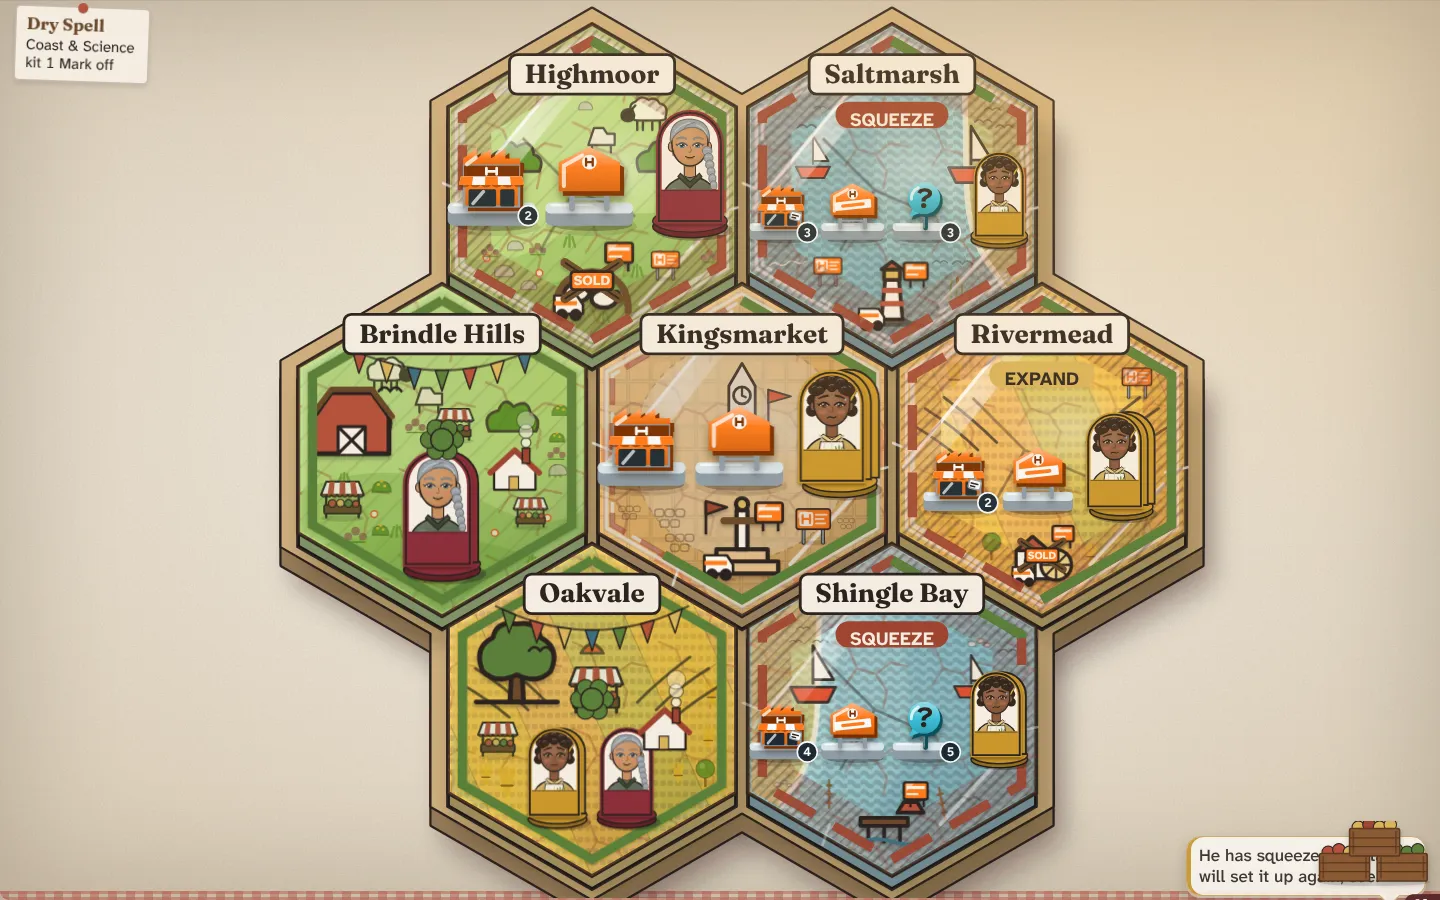
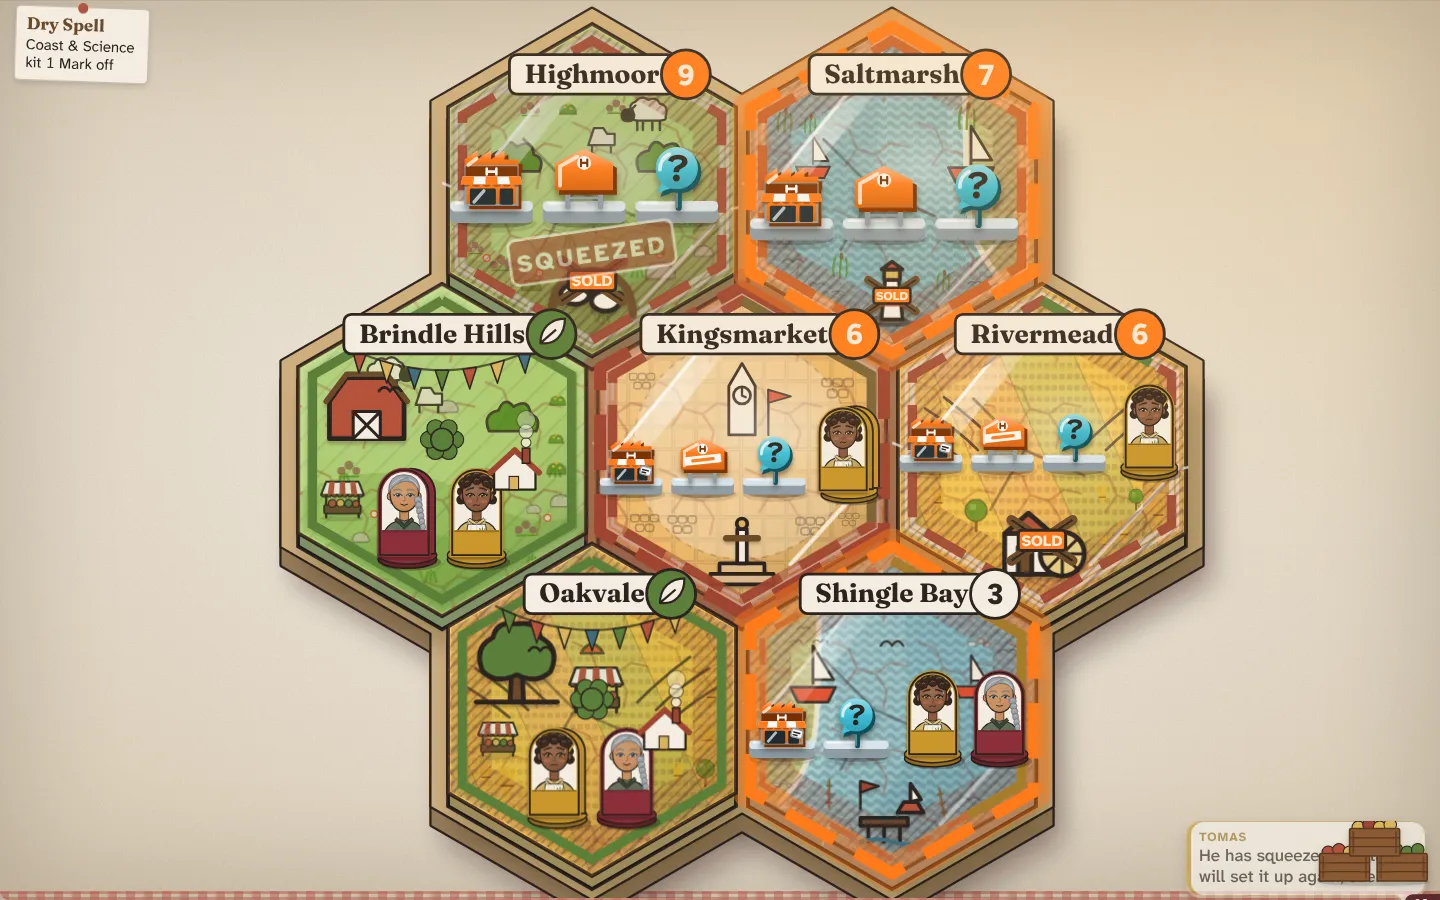
Cathnivore board: Hollowell's count discs and H signboards fold into the region's status disc (plan item 550 slice 3)
Hollowell's stacks lose their count discs (each names its count in a title),
held land loses its small H signboard, and the landmark's billboard and van
fold away; the SOLD boards and the warning pennant stay. The status disc is
28 px or more across on a desktop and 23 on a phone, whatever the board's
scale. region-status checks its size and that no piece meets the banner;
board-tokens and board-control updated. Cathnivore key art re-shot.

Claude-Session: https://claude.ai/code/session_01SimvMN2n8hnjgoYWDCwY1a

diff --git a/src/ui/Map.tsx b/src/ui/Map.tsx
@@ -3,7 +3,7 @@ import { ABILITY_MOMENT_MS, abilityUsed, type AbilityMomentView } from './abilit
 import { Landmark } from './Landmark'
 import { playCues } from '../platform/sound'
 import { atTheEdge, gripStage, regionControl, squeezedLastTurn, type GripStage } from './grip'
-import { COUNT_FROM, CORP_COUNT_FROM, ENEMY_Y, PRODUCER_H, PRODUCER_W, PRODUCER_Y, STACK_H, STACK_W, pieceLayout, type PieceRect } from './pieceLayout'
+import { COUNT_FROM, ENEMY_Y, PRODUCER_H, PRODUCER_W, PRODUCER_Y, STACK_H, STACK_W, pieceLayout, type PieceRect } from './pieceLayout'
 import { BOARD_LANDMARKS, boxAt, dressingSpot, LANDMARK_ART_H, landmarkMinScale, pickSpot } from './landmarkSpot'
 import { regionGround } from './regionGround'
 import RegionGroundArt from './RegionGroundArt'
@@ -376,13 +376,13 @@ function CorpBase({ cx, y, w }: { cx: number; y: number; w: number }) {
 }
 
 // Plan item 63: a stack's count, a dark disc sized by the tray so its number never renders under 11 px.
-function CountBadge({ cx, cy, r, n, corp = false }: { cx: number; cy: number; r: number; n: number; corp?: boolean }) {
+function CountBadge({ cx, cy, r, n }: { cx: number; cy: number; r: number; n: number }) {
   const fs = r * 1.25
-  // Plan item 413: Hollowell's count is its own slate-and-acrylic chip, not the players' ink disc.
+  // Plan item 550: only the producers' stalls carry a count disc now (Hollowell's is the region's status disc).
   return (
-    <g className={`piece-count${corp ? ' corp-count' : ''}`} pointerEvents="none">
-      <circle cx={cx} cy={cy} r={r} fill={corp ? 'var(--corp-slate)' : 'var(--ink, #1b1712)'} stroke={corp ? 'var(--corp-acrylic)' : 'var(--paper, #f4ead8)'} strokeWidth={Math.max(0.8, r * 0.16)} />
-      <text x={cx} y={cy + fs * 0.36} textAnchor="middle" fontSize={fs} fontWeight={700} fill={corp ? 'var(--corp-acrylic)' : 'var(--paper, #f4ead8)'}>
+    <g className="piece-count" pointerEvents="none">
+      <circle cx={cx} cy={cy} r={r} fill="var(--ink, #1b1712)" stroke="var(--paper, #f4ead8)" strokeWidth={Math.max(0.8, r * 0.16)} />
+      <text x={cx} y={cy + fs * 0.36} textAnchor="middle" fontSize={fs} fontWeight={700} fill="var(--paper, #f4ead8)">
         {n}
       </text>
     </g>
@@ -397,7 +397,7 @@ function CountBadge({ cx, cy, r, n, corp = false }: { cx: number; cy: number; r:
 /** Plan item 172: each piece kind's outline, so the board reads without colour. */
 const SILHOUETTE = { outlets: 'sawtooth', buyouts: 'peak', doubt: 'bubble' } as const
 
-function EnemyStack({ kind, n, scale, ornaments, countR, cy = ENEMY_Y }: { kind: 'outlets' | 'buyouts' | 'doubt'; n: number; scale: number; ornaments: boolean; countR: number; cy?: number }) {
+function EnemyStack({ kind, n, scale, ornaments, cy = ENEMY_Y }: { kind: 'outlets' | 'buyouts' | 'doubt'; n: number; scale: number; ornaments: boolean; cy?: number }) {
   // The art spans 18 icon units across (the base's lip, copies offset right) and 22.6 down (copies up, the
   // base's shadow below).
   const k = Math.min((STACK_W * scale) / 18, (STACK_H * scale) / 22.6)
@@ -411,8 +411,9 @@ function EnemyStack({ kind, n, scale, ornaments, countR, cy = ENEMY_Y }: { kind:
         {/* keyed by the count, so a piece landing on a stack drops in again */}
         <g key={n}>{icon}</g>
       </g>
-      {/* plan item 425: the count sits on the piece's own plinth (its right end), not floating above it */}
-      {n >= CORP_COUNT_FROM && <CountBadge corp cx={Math.min(14.6 * k, STACK_W * scale - countR)} cy={Math.min(bottom - 3.6 * k, bottom - countR)} r={countR} n={n} />}
+      {/* Plan item 550: no count disc on the piece; the region's status disc on its banner counts Hollowell's pieces,
+          and the stack names its own count for a hover or a screen reader. */}
+      <title>{`${n} ${kind === 'outlets' ? (n === 1 ? 'Outlet' : 'Outlets') : kind === 'buyouts' ? (n === 1 ? 'Buyout' : 'Buyouts') : 'Doubt'}`}</title>
     </g>
   )
 }
@@ -1189,7 +1190,7 @@ export default function Map({ state, enemyTurn, highlight, threat, onSelect, onI
                           // Plan item 451: the stack a dragged card will take pieces from lifts and fades in time.
                           data-going={aim?.region === id && aim.going?.includes(k) ? '' : undefined}
                         >
-                          <EnemyStack kind={rect.kind} n={n} scale={tray.enemyScale} ornaments={tray.ornaments} countR={tray.countR} cy={tray.enemyY} />
+                          <EnemyStack kind={rect.kind} n={n} scale={tray.enemyScale} ornaments={tray.ornaments} cy={tray.enemyY} />
                         </g>
                       )
                     }
@@ -1345,17 +1346,22 @@ export default function Map({ state, enemyTurn, highlight, threat, onSelect, onI
               const control = regionControl(r)
               const label = `${def.name}: ${control === 'free' ? 'free' : control === 'held' ? 'held by Hollowell' : 'contested'}${control === 'free' ? '' : `, ${n} Hollowell ${n === 1 ? 'piece' : 'pieces'}`}`
               const cy = y - HEX_R * 0.62 - 4.5
+              // Plan item 550: at least 28 px across on a desktop and 23 px on a phone, whatever the board's scale.
+              const sr = Math.max(13, (11.5 * HEX_R) / Math.max(24, hexPx ?? 72))
+              const k = sr / 11
               return (
-                <g className="region-status" data-region-status={control} data-count={n} data-cy={cy} role="img" aria-label={label} transform={`translate(${x + def.name.length * 4.3 + 14} ${cy})`}>
+                <g className="region-status" data-region-status={control} data-count={n} data-cy={cy} data-r={sr.toFixed(1)} role="img" aria-label={label} transform={`translate(${x + def.name.length * 4.3 + Math.max(14, sr * 0.8)} ${cy})`}>
                   <title>{label}</title>
-                  <circle r={11} className="region-status-disc" />
-                  {control === 'free' ? (
-                    <path className="region-status-leaf" d="M-5 4C-5-3 0-7 6-7C6 0 2 5-5 4ZM-5 4L2-2" />
-                  ) : (
-                    <text y={4.6} textAnchor="middle" className="region-status-count">
-                      {n}
-                    </text>
-                  )}
+                  <circle r={sr} className="region-status-disc" />
+                  <g transform={`scale(${k.toFixed(3)})`}>
+                    {control === 'free' ? (
+                      <path className="region-status-leaf" d="M-5 4C-5-3 0-7 6-7C6 0 2 5-5 4ZM-5 4L2-2" />
+                    ) : (
+                      <text y={4.6} textAnchor="middle" className="region-status-count">
+                        {n}
+                      </text>
+                    )}
+                  </g>
                 </g>
               )
             })()}
@@ -1606,7 +1612,7 @@ function fitPlaques(svg: SVGSVGElement) {
     plate.setAttribute('width', String(w + 16))
     // Plan item 550: the status disc rides the plaque's right end.
     const status = sign.querySelector<SVGGElement>('.region-status')
-    if (status) status.setAttribute('transform', `translate(${cx + w / 2 + 14} ${status.getAttribute('data-cy')})`)
+    if (status) status.setAttribute('transform', `translate(${cx + w / 2 + Math.max(14, Number(status.getAttribute('data-r')) * 0.8)} ${status.getAttribute('data-cy')})`)
   }
 }
 
@@ -1615,33 +1621,16 @@ function matchesSlot(state: GameState, region: RegionId, slot: 'squeeze' | 'expa
 }
 
 /**
- * Plan item 55: Hollowell's props on a landmark, in its own 24-unit box so they stand where it does: a glossy
- * billboard (stage 1+), a delivery van (stage 2+), boards across the landmark under a SOLD sign (stage 3), and a
- * small warning pennant when the next Squeeze would take ground. Each reads by shape, so greyscale tells them apart.
+ * Plan item 55: Hollowell's props on a landmark, in its own 24-unit box so they stand where it does: boards across
+ * the landmark under a SOLD sign (stage 3), and a small warning pennant when the next Squeeze would take ground
+ * (item 550 folded the billboard and van away). Each reads by shape, so greyscale tells them apart.
  */
 function GripProps({ stage, edge }: { stage: GripStage; edge: boolean }) {
   const ink = { stroke: 'var(--ink)', strokeWidth: 0.9, strokeLinejoin: 'round' as const }
   return (
     <g className="grip-props">
-      {stage >= 1 && (
-        <g className="grip-billboard" data-grip-prop="billboard" {...ink}>
-          <path d="M7 -3 V-6 M12 -3 V-6" />
-          <rect x={4.5} y={-12.5} width={9} height={6.5} rx={0.8} fill="var(--hollowell)" />
-          <path d="M5.5 -10.5 H12.5" stroke="var(--paper)" strokeWidth={1.2} />
-          <path d="M5.5 -8 H10" stroke="var(--paper)" strokeWidth={0.8} />
-          {/* Plan item 267: glossy plastic (VISION: the corporations are glossy, the players' land hand-made). */}
-          <path className="grip-gloss" d="M5.4 -12 L8.4 -12 L5.4 -9 Z" fill="var(--paper-hi, var(--paper))" stroke="none" opacity={0.55} />
-        </g>
-      )}
-      {stage >= 2 && (
-        <g className="grip-van" data-grip-prop="van" {...ink}>
-          <path d="M-12.5 11 V5 H-5 L-3 8 V11 Z" fill="var(--paper-hi, var(--paper))" />
-          <path d="M-12.5 7.5 H-5" stroke="var(--hollowell)" strokeWidth={1.4} />
-          <path className="grip-gloss" d="M-11.8 5.7 H-6.2" stroke="var(--paper-hi, var(--paper))" strokeWidth={0.7} strokeLinecap="round" opacity={0.8} />
-          <circle cx={-10} cy={11.4} r={1.6} fill="var(--ink)" />
-          <circle cx={-5.4} cy={11.4} r={1.6} fill="var(--ink)" />
-        </g>
-      )}
+      {/* Plan item 550: the billboard (stage 1) and the delivery van (stage 2) fold into the region's status disc and
+          Hollowell's own pieces; only the boards of a region it holds, and the warning pennant, stand on the landmark. */}
       {stage >= 3 && (
         <g className="grip-sold" data-grip-prop="sold" {...ink}>
           <path d="M-9 -6 L9 6 M-9 6 L9 -6" stroke="var(--soil)" strokeWidth={3} strokeLinecap="round" />

diff --git a/e2e/region-status.spec.ts b/e2e/region-status.spec.ts
@@ -3,7 +3,7 @@ import { fillSeed } from './setupSeed'
 
 // Plan item 550 slice 1: every region carries exactly one status on its name banner's end (free, contested or held,
 // with Hollowell's piece count), labelled for screen readers, sitting on the banner and inside its hex's row.
-test('each region has one labelled status on its name banner', async ({ page }) => {
+test('each region has one labelled status on its name banner', async ({ page, hasTouch }) => {
   await page.goto('/')
   await page.getByText('Quick Game').click()
   await fillSeed(page, '7')
@@ -25,6 +25,10 @@ test('each region has one labelled status on its name banner', async ({ page }) 
         // the disc overlaps the plaque's right end, centred on its height
         onEnd: b.left < plate.right && b.right > plate.right && Math.abs((b.top + b.bottom) / 2 - (plate.top + plate.bottom) / 2) < plate.height * 0.4,
         size: b.height,
+        // plan item 550: no piece or landmark prop meets the banner (plaque or disc)
+        meets: [...document.querySelectorAll(`.map-wrap svg.map .region-hex[data-region="${sign.getAttribute('data-sign')}"] :is([data-piece], [data-grip-prop])`)]
+          .map((g) => g.getBoundingClientRect())
+          .filter((g) => g.width > 0 && [plate, b].some((o) => g.left < o.right && o.left < g.right && g.top < o.bottom && o.top < g.bottom)).length,
       }
     }),
   )
@@ -34,6 +38,8 @@ test('each region has one labelled status on its name banner', async ({ page }) 
     expect(s.status).toMatch(/^(free|contested|held)$/)
     expect(s.label).toMatch(s.status === 'free' ? /: free$/ : new RegExp(`: (contested|held by Hollowell), ${s.n} Hollowell pieces?$`))
     expect(s.onEnd, JSON.stringify(s)).toBe(true)
-    expect(s.size).toBeGreaterThanOrEqual(10)
+    // Plan item 550: 28 px across or more on a desktop, 22 on a phone.
+    expect(s.size, s.region!).toBeGreaterThanOrEqual(hasTouch ? 22 : 28)
+    expect(s.meets, `${s.region} pieces on its banner`).toBe(0)
   }
 })

diff --git a/src/ui/pieceLayout.ts b/src/ui/pieceLayout.ts
@@ -14,8 +14,6 @@ const FACE = TILE_R * 0.96 - 3
 export const MIN_COUNT_PX = 12.5
 /** Plan item 172: two or three of a kind stand as an offset pile; a number badge only from this many. */
 export const COUNT_FROM = 4
-/** Plan item 413: Hollowell's stacks are one glossy piece a kind, with a count badge from two (no pile). */
-export const CORP_COUNT_FROM = 2
 /** Below this rendered hex radius the stacks drop their ornaments (tags and signs) before anything shrinks. */
 export const ORNAMENT_PX = 64
 
@@ -118,7 +116,8 @@ function place(input: PieceInput, scale: number, ornaments: boolean, countR: num
   const slots: PieceKind[] = [...stacks, ...(input.scheme ? (['scheme'] as const) : [])]
   // A stack's slot holds its body, its ornament above and, from COUNT_FROM up, its count badge (half over the
   // body's empty top right corner, half outside). Plan item 172: two or three stand as a pile with no badge.
-  const counted = (k: PieceKind) => (k === 'outlets' || k === 'buyouts' || k === 'doubt') && input[k] >= CORP_COUNT_FROM
+  // Plan item 550: Hollowell's stacks carry no count disc (the region's status disc on its banner counts its pieces).
+  const counted = (_k: PieceKind) => false
   // Plan item 413: with no pile of copies the slot's right edge is free, so the count sits inside it (no extra width).
   const ws = slots.map(() => STACK_W * eScale)
   // Plan item 172: the row steps down the tile, rather than shrinking, when the plate or a badge sits over it.

diff --git a/e2e/board-control.spec.ts b/e2e/board-control.spec.ts
@@ -31,8 +31,9 @@ test('held land is wrapped in plastic, freed land warms and holds stalls', async
   for (const g of await page.locator('.map-wrap .region-hex[data-control="free"]').all()) {
     expect(await g.locator('.free-stall').count()).toBeGreaterThanOrEqual(2)
   }
-  // Held ground carries Hollowell's signboard where the pieces leave room (a crowded tile may have none).
-  expect(await page.locator('.map-wrap .region-hex[data-control="held"] .held-sign').count()).toBeGreaterThanOrEqual(1)
+  // Plan item 550: held ground carries no H signboard (the region's status disc, in Hollowell's orange, says it).
+  expect(await page.locator('.map-wrap .region-hex[data-control="held"] .held-sign').count()).toBe(0)
+  for (const s of await page.locator('.map-wrap .region-status[data-region-status="held"]').all()) await expect(s).toHaveAttribute('aria-label', /held by Hollowell/)
   // Plan item 525 (replacing item 417's grey): held land keeps its warm palette at full strength (no filter greys it)
   // and Hollowell's hold is shrink-wrap laid over it, which reads by its highlights in greyscale; freed land wears none.
   const sats = await page.locator('.map-wrap .region-hex .land-layer').evaluateAll((es) =>

diff --git a/src/ui/regionGround.ts b/src/ui/regionGround.ts
@@ -131,9 +131,10 @@ export function regionGround(id: string, type: RegionType, tray: readonly PieceR
   const rand = rng(id)
   const marks: GroundMark[] = []
   const boxes: PieceRect[] = []
-  // Plan item 417: freed land holds a market of its own (FREE_STALLS awnings); held land a Hollowell signboard. Placed
-  // first, where the pieces leave room (shrinking as they miss), so who holds the ground reads at a glance.
-  const props: GroundKind[] = control === 'free' ? Array<GroundKind>(FREE_STALLS).fill('stall') : control === 'held' ? ['hsign'] : []
+  // Plan item 417: freed land holds a market of its own (FREE_STALLS awnings), placed first where the pieces leave room
+  // (shrinking as they miss). Plan item 550: held land no longer carries a small H signboard: the region's status disc
+  // (Hollowell's orange) and the SOLD boards on its landmark say who holds it.
+  const props: GroundKind[] = control === 'free' ? Array<GroundKind>(FREE_STALLS).fill('stall') : []
   for (const kind of props) {
     for (let attempt = 0; attempt < 160; attempt++) {
       const s = Math.max(0.7, 1.45 - attempt * 0.005)

diff --git a/tests/region-ground.test.ts b/tests/region-ground.test.ts
@@ -68,15 +68,13 @@ describe('regionGround on freed land', () => {
   }
 })
 
-// Plan item 417: held land carries Hollowell's signboard wherever two stacks leave room, clear of them.
+// Plan item 550 (replacing item 417's signboard): held land carries no H signboard; the status disc says who holds it.
 describe('regionGround on held land', () => {
   for (const def of Object.values(REGIONS)) {
-    it(`${def.name}: a signboard when held`, () => {
+    it(`${def.name}: no signboard when held`, () => {
       const tray = pieceLayout({ outlets: 2, buyouts: 1, doubt: 0, producers: 1, scheme: false, labelWidth: label(def.name) }, 90).rects
       const marks = regionGround(def.id, def.type, tray, 'held')
-      const signs = marks.filter((m) => m.kind === 'hsign')
-      expect(signs.length).toBe(1)
-      for (const p of tray) expect(rectsOverlap(markRect(signs[0]!), p)).toBe(false)
+      expect(marks.filter((m) => m.kind === 'hsign')).toHaveLength(0)
     })
   }
 })

diff --git a/e2e/board-tokens.spec.ts b/e2e/board-tokens.spec.ts
@@ -48,9 +48,8 @@ test('board pieces are chunky tokens with their own outlines', async ({ page }, 
       expect(p.copies, `${p.kind} x${p.n}`).toBe(Math.min(p.n, 3) - 1)
     } else {
       expect(p.shadow, `${p.kind} contact shadow`).toBeGreaterThan(0)
-      expect(p.gap, `${p.kind} x${p.n} count off its piece`).toBeLessThanOrEqual(4)
-      // Plan item 413: one Hollowell piece a kind, a count badge from two.
-      expect(p.badges, `${p.kind} x${p.n}`).toBe(p.n >= 2 ? 1 : 0)
+      // Plan item 413: one Hollowell piece a kind; item 550: no count disc on it (the region's status disc counts).
+      expect(p.badges, `${p.kind} x${p.n}`).toBe(0)
       expect(p.copies, `${p.kind} x${p.n}`).toBe(0)
     }
   }
